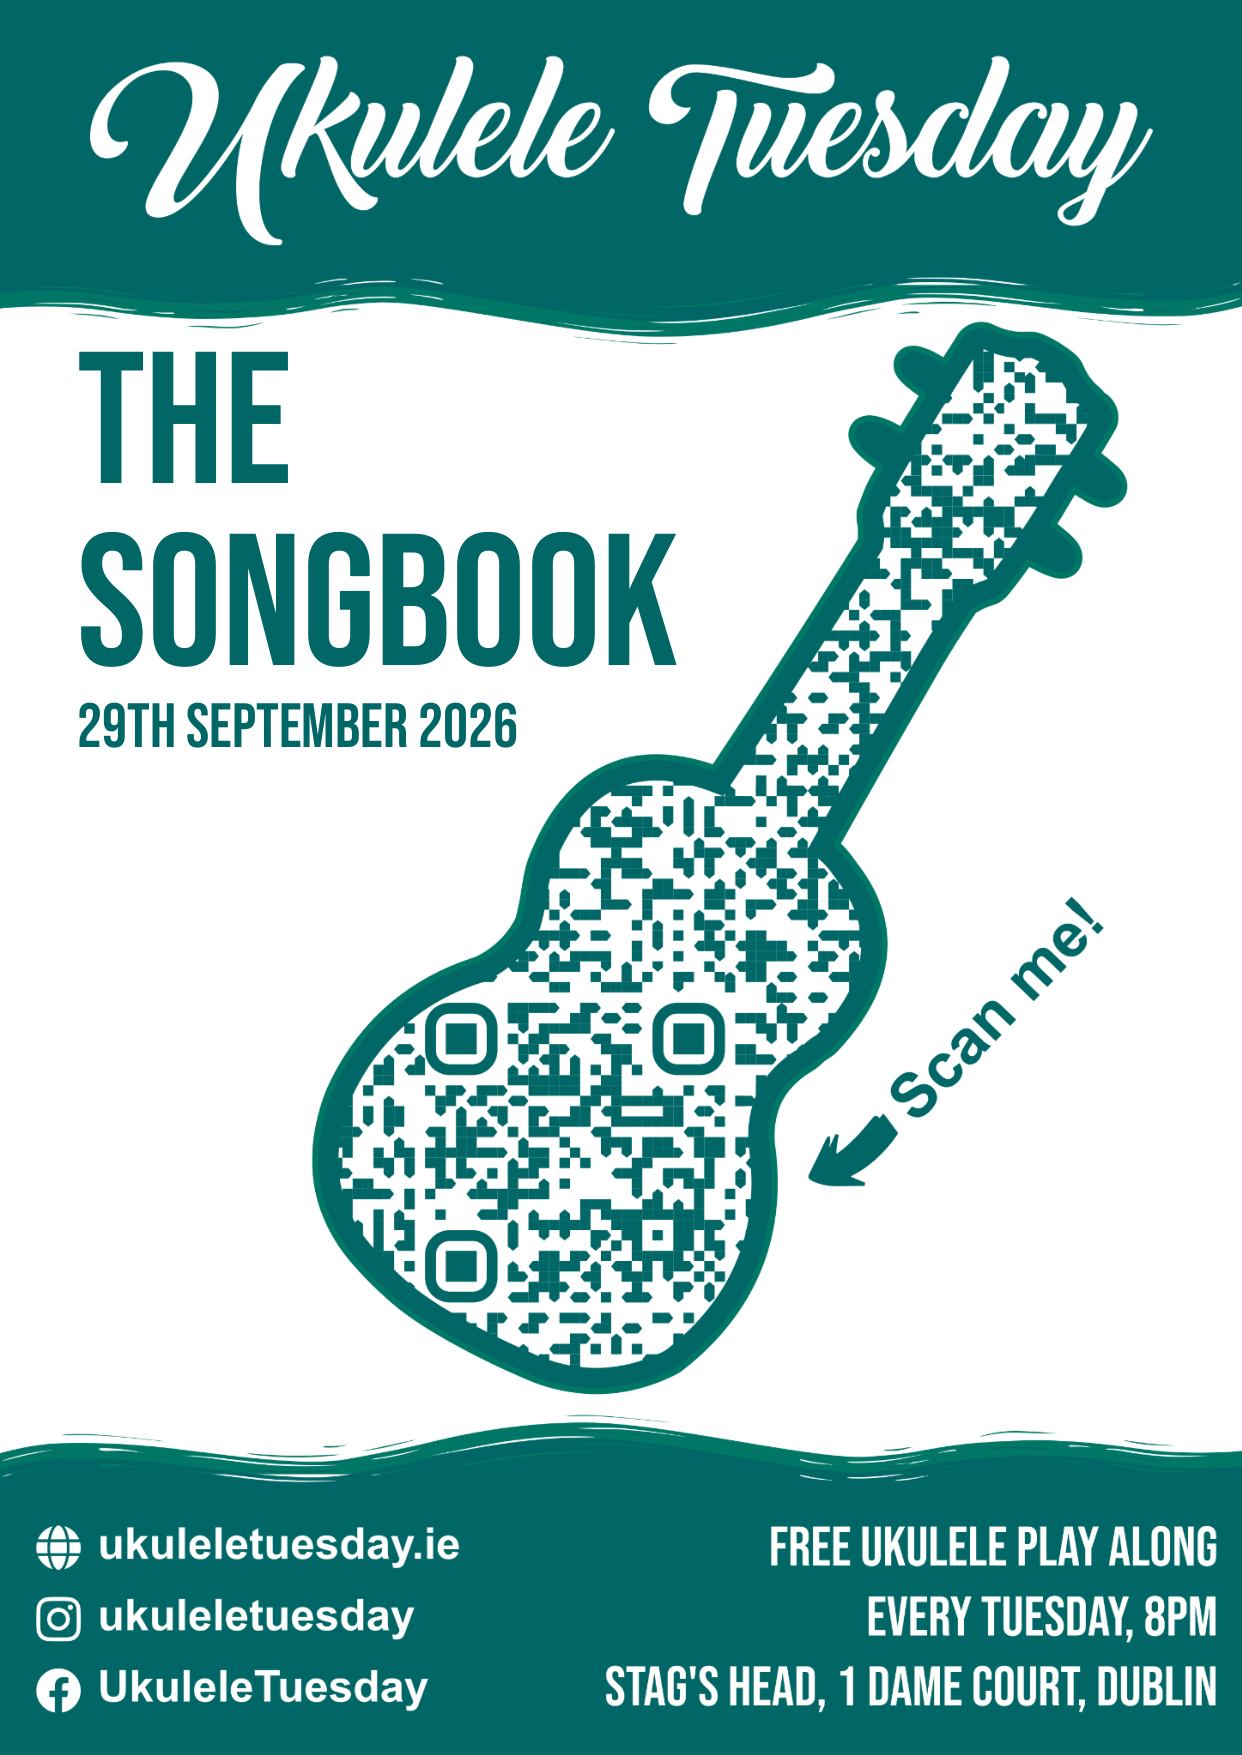
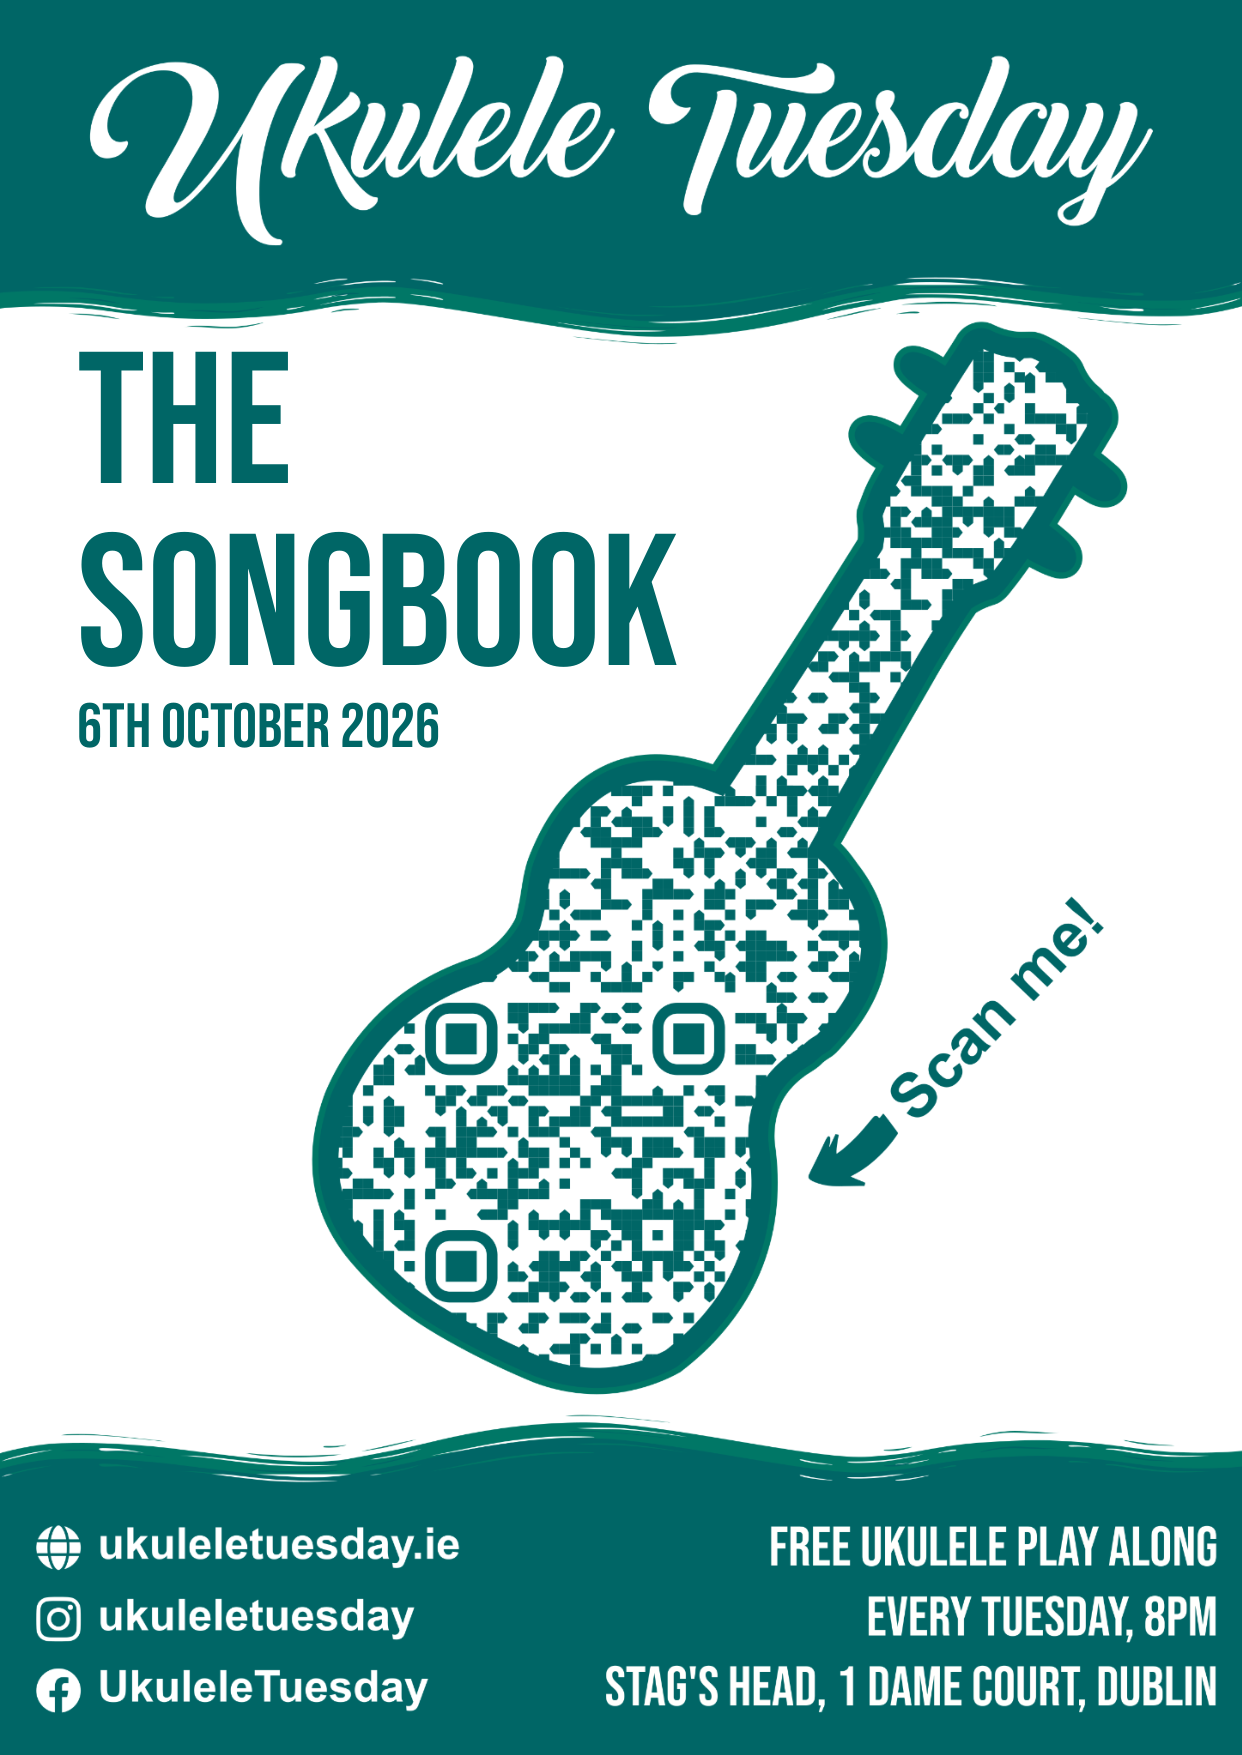
Deploying to gh-pages from @ UkuleleTuesday/songbooks@2796045b2c0537a73fbc84b8a034fafd7b0fd5ab 🚀

Changed region(s): [[0.0612, 0.4, 0.4283, 0.4308]]

diff --git a/index.html b/index.html
@@ -53,17 +53,17 @@
         
         <li class="songbook-item">
           
-          <a href="https://storage.googleapis.com/ukulele-tuesday-songbooks/current/ukulele-tuesday-songbook-current-2026-09-29.pdf" target="_blank" rel="noopener noreferrer"
+          <a href="https://storage.googleapis.com/ukulele-tuesday-songbooks/current/ukulele-tuesday-songbook-current-2026-10-05.pdf" target="_blank" rel="noopener noreferrer"
              class="songbook-link"
              data-songbook-title="Current Songbook"
-             data-songbook-url="https://storage.googleapis.com/ukulele-tuesday-songbooks/current/ukulele-tuesday-songbook-current-2026-09-29.pdf"
-             data-songbook-filename="ukulele-tuesday-songbook-current-2026-09-29.pdf"
+             data-songbook-url="https://storage.googleapis.com/ukulele-tuesday-songbooks/current/ukulele-tuesday-songbook-current-2026-10-05.pdf"
+             data-songbook-filename="ukulele-tuesday-songbook-current-2026-10-05.pdf"
              data-songbook-subject="The current edition of the Ukulele Tuesday songbook, containing the songs used during our Tuesday sessions.
 We rotate the songs we play on Tuesday sessions frequently, so make sure to download the latest version!
 ">
             <div class="preview-container">
               <img src="previews/current.png" alt="Preview of Ukulele Tuesday - Current Songbook">
-              
+              <span class="card-badge">Updated</span>
               <div class="download-icon">
                 <svg xmlns="http://www.w3.org/2000/svg" width="24" height="24" viewBox="0 0 24 24" fill="none" stroke="currentColor" stroke-width="2" stroke-linecap="round" stroke-linejoin="round"><path d="M21 15v4a2 2 0 0 1-2 2H5a2 2 0 0 1-2-2v-4"></path><polyline points="7 10 12 15 17 10"></polyline><line x1="12" y1="15" x2="12" y2="3"></line></svg>
               </div>
@@ -78,7 +78,7 @@ We rotate the songs we play on Tuesday sessions frequently, so make sure to down
 </div>
               
               
-              <div class="updated-line">Updated <time datetime="2026-09-08T14:23:11.267809+00:00">8 Sep 2026</time></div>
+              <div class="updated-line">Updated <time datetime="2026-10-05T21:43:41.977421+00:00">5 Oct 2026</time></div>
               
             </div>
           </a>
@@ -87,6 +87,21 @@ We rotate the songs we play on Tuesday sessions frequently, so make sure to down
             <summary>What's new</summary>
             <div class="changelog-body">
               
+      <div class="changelog-entry">
+        <div class="changelog-date">5 Oct 2026</div>
+        
+        
+        <div class="changelog-group changelog-removed">
+          <h4>Removed</h4>
+          <ul><li><a href="https://ukuleletuesday.github.io/songs/sheets/macarena-bayside-boys-remix-los-del-rio/" target="_blank" rel="noopener noreferrer">Macarena (Bayside Boys Remix) - Los Del Rio</a></li></ul>
+        </div>
+        
+      </div>
+      
+              
+              <button type="button" class="changelog-more" hidden>Earlier changes…</button>
+              <div class="changelog-earlier">
+                
       <div class="changelog-entry">
         <div class="changelog-date">8 Sep 2026</div>
         
@@ -98,10 +113,6 @@ We rotate the songs we play on Tuesday sessions frequently, so make sure to down
         
       </div>
       
-              
-              <button type="button" class="changelog-more" hidden>Earlier changes…</button>
-              <div class="changelog-earlier">
-                
       <div class="changelog-entry">
         <div class="changelog-date">29 Aug 2026</div>
         
@@ -227,22 +238,6 @@ We rotate the songs we play on Tuesday sessions frequently, so make sure to down
         <div class="changelog-group changelog-removed">
           <h4>Removed</h4>
           <ul><li><a href="https://ukuleletuesday.github.io/songs/sheets/folsom-prison-blues-johnny-cash/" target="_blank" rel="noopener noreferrer">Folsom Prison Blues - Johnny Cash</a></li><li><a href="https://ukuleletuesday.github.io/songs/sheets/fuck-you-cee-lo-green/" target="_blank" rel="noopener noreferrer">Fuck You - Cee Lo Green</a></li><li><a href="https://ukuleletuesday.github.io/songs/sheets/i-kissed-a-girl-katy-perry/" target="_blank" rel="noopener noreferrer">I Kissed A Girl - Katy Perry</a></li></ul>
-        </div>
-        
-      </div>
-      
-      <div class="changelog-entry">
-        <div class="changelog-date">2 Jun 2026</div>
-        
-        <div class="changelog-group changelog-added">
-          <h4>Added</h4>
-          <ul><li><a href="https://ukuleletuesday.github.io/songs/sheets/grace-kelly-mika/" target="_blank" rel="noopener noreferrer">Grace Kelly - MIKA</a></li><li><a href="https://ukuleletuesday.github.io/songs/sheets/hey-jude-the-beatles/" target="_blank" rel="noopener noreferrer">Hey Jude - The Beatles</a></li><li><a href="https://ukuleletuesday.github.io/songs/sheets/i-feel-love-donna-summer/" target="_blank" rel="noopener noreferrer">I Feel Love - Donna Summer</a></li></ul>
-        </div>
-        
-        
-        <div class="changelog-group changelog-removed">
-          <h4>Removed</h4>
-          <ul><li><a href="https://ukuleletuesday.github.io/songs/sheets/hanno-ucciso-luomo-ragno-883/" target="_blank" rel="noopener noreferrer">Hanno ucciso l&#39;Uomo Ragno - 883</a></li><li><a href="https://ukuleletuesday.github.io/songs/sheets/learn-to-fly-foo-fighters/" target="_blank" rel="noopener noreferrer">Learn to Fly - Foo Fighters</a></li><li><a href="https://ukuleletuesday.github.io/songs/sheets/tarantella-napoletana-andrea-colombari/" target="_blank" rel="noopener noreferrer">Tarantella napoletana - Andrea Colombari</a></li></ul>
         </div>
         
       </div>
@@ -644,7 +639,7 @@ We rotate the songs we play on Tuesday sessions frequently, so make sure to down
         </a>
       </div>
       
-      <div class="last-updated" id="last-updated-container" data-timestamp="2026-10-04T19:11:13+00:00">
+      <div class="last-updated" id="last-updated-container" data-timestamp="2026-10-05T21:44:44+00:00">
         Last updated: <span id="last-updated-text"></span>
       </div>
       <script>

diff --git a/current/index.html b/current/index.html
@@ -2,11 +2,11 @@
 <html>
 <head>
 <title>Redirecting to Ukulele Tuesday - Current Songbook</title>
-<link rel="canonical" href="https://storage.googleapis.com/ukulele-tuesday-songbooks/current/ukulele-tuesday-songbook-current-2026-09-29.pdf" />
-<meta http-equiv="refresh" content="0; url=https://storage.googleapis.com/ukulele-tuesday-songbooks/current/ukulele-tuesday-songbook-current-2026-09-29.pdf">
-<script>window.location.replace("https://storage.googleapis.com/ukulele-tuesday-songbooks/current/ukulele-tuesday-songbook-current-2026-09-29.pdf");</script>
+<link rel="canonical" href="https://storage.googleapis.com/ukulele-tuesday-songbooks/current/ukulele-tuesday-songbook-current-2026-10-05.pdf" />
+<meta http-equiv="refresh" content="0; url=https://storage.googleapis.com/ukulele-tuesday-songbooks/current/ukulele-tuesday-songbook-current-2026-10-05.pdf">
+<script>window.location.replace("https://storage.googleapis.com/ukulele-tuesday-songbooks/current/ukulele-tuesday-songbook-current-2026-10-05.pdf");</script>
 </head>
 <body>
-<p>If you are not redirected, <a href="https://storage.googleapis.com/ukulele-tuesday-songbooks/current/ukulele-tuesday-songbook-current-2026-09-29.pdf">click here to view the songbook</a>.</p>
+<p>If you are not redirected, <a href="https://storage.googleapis.com/ukulele-tuesday-songbooks/current/ukulele-tuesday-songbook-current-2026-10-05.pdf">click here to view the songbook</a>.</p>
 </body>
 </html>

diff --git a/oktoberfest-2026/index.html b/oktoberfest-2026/index.html
@@ -1,0 +1,12 @@
+<!DOCTYPE html>
+<html>
+<head>
+<title>Redirecting to Ukulele Tuesday - Oktoberfest 2026</title>
+<link rel="canonical" href="https://storage.googleapis.com/ukulele-tuesday-songbooks/oktoberfest-2026/ukulele-tuesday-songbook-oktoberfest-2026-2026-10-05.pdf" />
+<meta http-equiv="refresh" content="0; url=https://storage.googleapis.com/ukulele-tuesday-songbooks/oktoberfest-2026/ukulele-tuesday-songbook-oktoberfest-2026-2026-10-05.pdf">
+<script>window.location.replace("https://storage.googleapis.com/ukulele-tuesday-songbooks/oktoberfest-2026/ukulele-tuesday-songbook-oktoberfest-2026-2026-10-05.pdf");</script>
+</head>
+<body>
+<p>If you are not redirected, <a href="https://storage.googleapis.com/ukulele-tuesday-songbooks/oktoberfest-2026/ukulele-tuesday-songbook-oktoberfest-2026-2026-10-05.pdf">click here to view the songbook</a>.</p>
+</body>
+</html>
